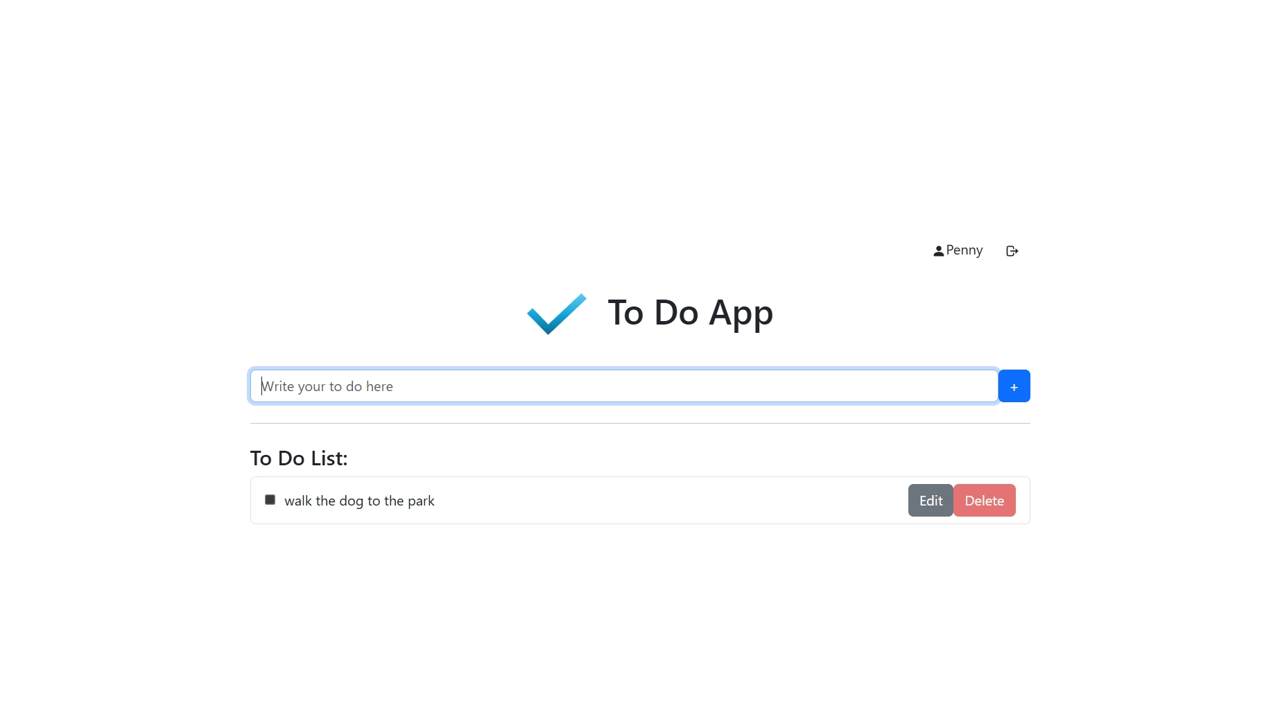
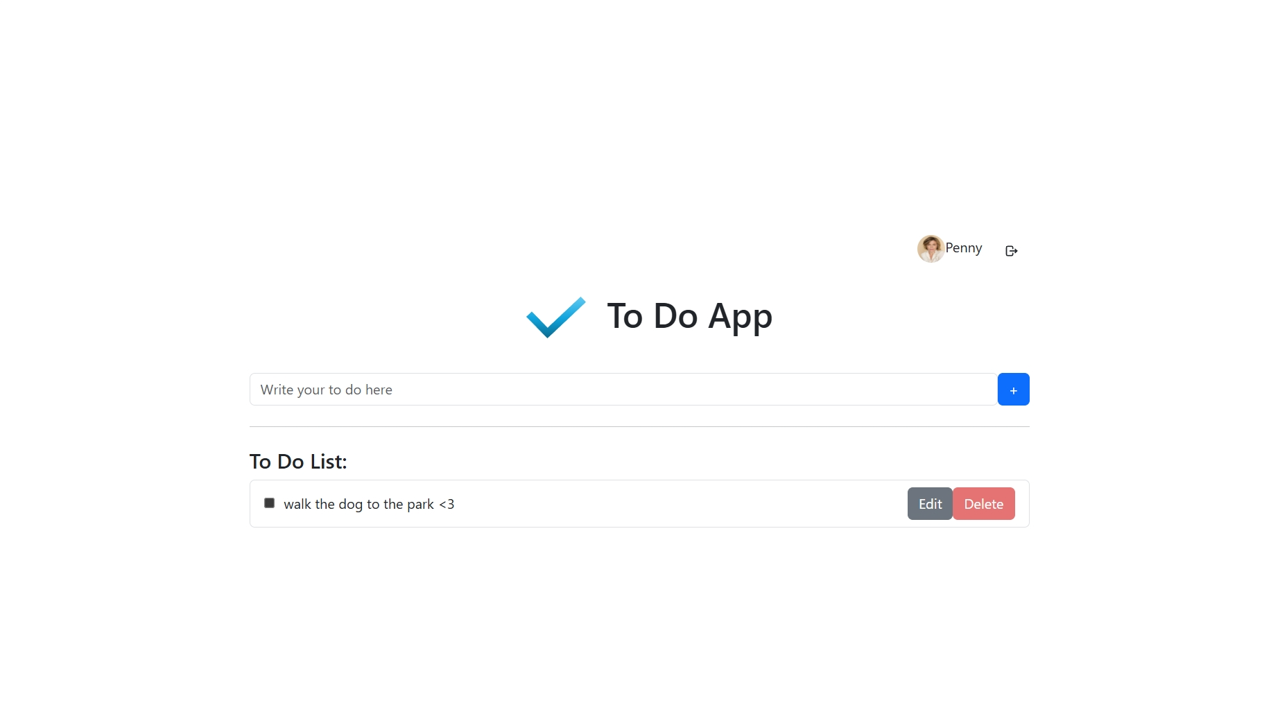
added functionality for uploading profile photo

diff --git a/src/App.jsx b/src/App.jsx
@@ -15,31 +15,27 @@ function App() {
     const [password, setPassword] = useState('');
     const [token, setToken] = useState('');
     const [isLoggedIn, setIsLoggedIn] = useState(false);
-  
+    const [profilePicture, setProfilePicture] = useState(null);
+
     const fetchTasks = useCallback(async () => {
         try {
-            const response = await axios.get('http://localhost:3000/tasks', {
-                headers: { Authorization: token }
-            });
+            const response = await axios.get('http://localhost:3000/tasks', { headers: { Authorization: token } });
             setTasks(response.data);
         } catch (error) {
             console.error('Error fetching tasks:', error);
         }
     }, [token]);
-    
+
     useEffect(() => {
         if (isLoggedIn) {
             fetchTasks();
         }
     }, [isLoggedIn, fetchTasks]);
-    
 
     const handleAddTask = async () => {
         if (task.trim() !== '') {
             try {
-                await axios.post('http://localhost:3000/tasks', { text: task }, {
-                    headers: { Authorization: token }
-                });
+                await axios.post('http://localhost:3000/tasks', { text: task }, { headers: { Authorization: token } });
                 setTask('');
                 fetchTasks();
             } catch (error) {
@@ -50,9 +46,7 @@ function App() {
 
     const handleDeleteTask = async (id) => {
         try {
-            await axios.delete(`http://localhost:3000/tasks/${id}`, {
-                headers: { Authorization: token }
-            });
+            await axios.delete(`http://localhost:3000/tasks/${id}`, { headers: { Authorization: token } });
             fetchTasks();
         } catch (error) {
             console.error('Error deleting task:', error);
@@ -67,9 +61,7 @@ function App() {
 
     const handleSaveTask = async (id) => {
         try {
-            await axios.put(`http://localhost:3000/tasks/${id}`, { text: editTaskText, completed: false, isEditing: false }, {
-                headers: { Authorization: token }
-            });
+            await axios.put(`http://localhost:3000/tasks/${id}`, { text: editTaskText, completed: false, isEditing: false }, { headers: { Authorization: token } });
             fetchTasks();
         } catch (error) {
             console.error('Error saving task:', error);
@@ -79,9 +71,7 @@ function App() {
     const handleToggleComplete = async (id) => {
         const task = tasks.find((task) => task.id === id);
         try {
-            await axios.put(`http://localhost:3000/tasks/${id}`, { ...task, completed: !task.completed }, {
-                headers: { Authorization: token }
-            });
+            await axios.put(`http://localhost:3000/tasks/${id}`, { ...task, completed: !task.completed }, { headers: { Authorization: token } });
             fetchTasks();
         } catch (error) {
             console.error('Error toggling task completion:', error);
@@ -109,7 +99,7 @@ function App() {
             console.error('Error signing up:', error);
             alert('Signup failed. Username already exists.');
         }
-    };   
+    };
 
     const handleLogin = async () => {
         try {
@@ -121,11 +111,29 @@ function App() {
             alert('Login failed. Please check your username and password.');
         }
     };
-   
+
     const handleLogout = () => {
         setToken('');
         setIsLoggedIn(false);
         setTasks([]);
+    };
+
+    const handleProfilePictureUpload = async (event) => {
+        const file = event.target.files[0];
+        const formData = new FormData();
+        formData.append('profilePicture', file);
+
+        try {
+            const response = await axios.post('http://localhost:3000/upload', formData, {
+                headers: {
+                    'Content-Type': 'multipart/form-data',
+                    Authorization: token,
+                },
+            });
+            setProfilePicture(response.data.url);
+        } catch (error) {
+            console.error('Error uploading profile picture:', error);
+        }
     };
 
     if (!isLoggedIn) {
@@ -139,22 +147,10 @@ function App() {
                 </div>
                 <div className="form-inline mt-3">
                     <Form.Group className="mb-3 d-flex align-items-center" controlId="formUsername">
-                        <Form.Control
-                            type="text"
-                            placeholder="Username"
-                            className="mr-2"
-                            value={username}
-                            onChange={(e) => setUsername(e.target.value)}
-                        />
+                        <Form.Control type="text" placeholder="Username" className="mr-2" value={username} onChange={(e) => setUsername(e.target.value)} />
                     </Form.Group>
                     <Form.Group className="mb-3 d-flex align-items-center" controlId="formPassword">
-                        <Form.Control
-                            type="password"
-                            placeholder="Password"
-                            className="mr-2"
-                            value={password}
-                            onChange={(e) => setPassword(e.target.value)}
-                        />
+                        <Form.Control type="password" placeholder="Password" className="mr-2" value={password} onChange={(e) => setPassword(e.target.value)} />
                     </Form.Group>
                     <Button variant="primary" onClick={handleLogin}>Login</Button>
                     <Button variant="secondary" onClick={handleSignup}>Signup</Button>
@@ -167,15 +163,21 @@ function App() {
         <>
             <div className="container mt-5">
                 <div className="logout-container d-flex justify-content-end align-items-center mb-2">
-                    <Button variant="outlined" className="mr-2">
-                        <BsFillPersonFill className="mr-1" />
+                    <input
+                        type="file"
+                        accept="image/*"
+                        style={{ display: 'none' }}
+                        id="profilePictureInput"
+                        onChange={handleProfilePictureUpload}
+                    />
+                    <Button variant="outlined" className="mr-2" onClick={() => document.getElementById('profilePictureInput').click()}>
+                        {profilePicture ? <img src={profilePicture} alt="Profile" className="profile-picture" /> : <BsFillPersonFill className="mr-1" />}
                         {username}
                     </Button>
                     <Button variant="outlined" className="mr-2" onClick={handleLogout}>
                         <TbLogout className="mr-1" />
                     </Button>
-                    </div>
-
+                </div>
                 <div className="header-container d-flex align-items-center justify-content-center">
                     <div className="header d-flex align-items-center">
                         <a href="#">
@@ -186,14 +188,7 @@ function App() {
                 </div>
                 <div className="form-inline mt-3">
                     <Form.Group className="mb-3 d-flex align-items-center" controlId="formToDo" style={{ width: '900px' }}>
-                        <Form.Control
-                            type="text"
-                            placeholder="Write your to do here"
-                            className="mr-2"
-                            value={task}
-                            onChange={(e) => setTask(e.target.value)}
-                            onKeyPress={handleKeyPress}
-                        />
+                        <Form.Control type="text" placeholder="Write your to do here" className="mr-2" value={task} onChange={(e) => setTask(e.target.value)} onKeyPress={handleKeyPress} />
                         <Button variant="primary" type="button" onClick={handleAddTask}>+</Button>
                     </Form.Group>
                 </div>
@@ -203,30 +198,12 @@ function App() {
                         <h4 className="mt-4" style={{ textAlign: 'left' }}>To Do List:</h4>
                         <ul className="list-group mt-2">
                             {tasks.map((task) => (
-                                <li
-                                    key={task.id}
-                                    className={`list-group-item d-flex align-items-center task-item ${task.completed ? 'completed-task' : ''}`}
-                                >
-                                    <input
-                                        type="checkbox"
-                                        className="mr-2"
-                                        checked={task.completed}
-                                        onChange={() => handleToggleComplete(task.id)}
-                                    />
+                                <li key={task.id} className={`list-group-item d-flex align-items-center task-item ${task.completed ? 'completed-task' : ''}`}>
+                                    <input type="checkbox" className="mr-2" checked={task.completed} onChange={() => handleToggleComplete(task.id)} />
                                     {task.isEditing ? (
-                                        <Form.Control
-                                            type="text"
-                                            className="flex-grow-1 ml-2"
-                                            value={editTaskText}
-                                            onChange={(e) => setEditTaskText(e.target.value)}
-                                            onKeyPress={(e) => handleSaveKeyPress(e, task.id)}
-                                            autoFocus
-                                        />
+                                        <Form.Control type="text" className="flex-grow-1 ml-2" value={editTaskText} onChange={(e) => setEditTaskText(e.target.value)} onKeyPress={(e) => handleSaveKeyPress(e, task.id)} autoFocus />
                                     ) : (
-                                        <span
-                                            className={`flex-grow-1 ml-2 ${task.completed ? 'completed' : ''}`}
-                                            style={{ textAlign: 'left' }}
-                                        >
+                                        <span className={`flex-grow-1 ml-2 ${task.completed ? 'completed' : ''}`} style={{ textAlign: 'left' }}>
                                             {task.text}
                                         </span>
                                     )}
@@ -285,6 +262,11 @@ function App() {
                 .muted-red {
                     background-color: #e57373;
                     border-color: #e57373;
+                }
+                .profile-picture {
+                    width: 2em; /* Adjust the size to match the icon */
+                    height: 2em; /* Adjust the size to match the icon */
+                    border-radius: 50%; /* Optional: to make the image circular */
                 }
             `}</style>
         </>

diff --git a/server.js b/server.js
@@ -4,14 +4,78 @@ import { v4 as uuidv4 } from 'uuid';
 import cors from 'cors';
 import bcrypt from 'bcrypt';
 import jwt from 'jsonwebtoken';
+import multer from 'multer';
+import path from 'path';
+import helmet from 'helmet';
 
 const app = express();
 const port = 3000;
 const secretKey = 'your_secret_key';
 
-app.use(cors());
+app.use(cors({ origin: 'http://localhost:5173' })); // Allow requests from your frontend origin
 app.use(express.json());
 app.use(express.urlencoded({ extended: true }));
+app.use(helmet({ 
+    crossOriginResourcePolicy: false, 
+    crossOriginEmbedderPolicy: false, 
+}));
+
+// Middleware to set CORS headers for all responses
+app.use((req, res, next) => {
+  res.header('Access-Control-Allow-Origin', 'http://localhost:5173');
+  res.header('Access-Control-Allow-Methods', 'GET, POST, PUT, DELETE');
+  res.header('Access-Control-Allow-Headers', 'Origin, X-Requested-With, Content-Type, Accept, Authorization');
+  next();
+});
+
+// Set storage engine
+const storage = multer.diskStorage({
+  destination: './uploads/',
+  filename: function (req, file, cb) {
+    cb(null, file.fieldname + '-' + Date.now() + path.extname(file.originalname));
+  }
+});
+
+// Initialize upload
+const upload = multer({
+  storage: storage,
+  limits: { fileSize: 1000000 }, // Limit file size to 1MB
+  fileFilter: function (req, file, cb) {
+    checkFileType(file, cb);
+  }
+}).single('profilePicture');
+
+// Check file type
+function checkFileType(file, cb) {
+  const filetypes = /jpeg|jpg|png|gif/;
+  const extname = filetypes.test(path.extname(file.originalname).toLowerCase());
+  const mimetype = filetypes.test(file.mimetype);
+
+  if (mimetype && extname) {
+    return cb(null, true);
+  } else {
+    cb('Error: Images Only!');
+  }
+}
+
+// Route to handle file upload
+app.post('/upload', (req, res) => {
+  upload(req, res, (err) => {
+    if (err) {
+      res.status(400).send(err);
+    } else {
+      if (req.file == undefined) {
+        res.status(400).send('No file selected!');
+      } else {
+        const fileUrl = `${req.protocol}://${req.get('host')}/uploads/${req.file.filename}`;
+        res.json({ url: fileUrl });
+      }
+    }
+  });
+});
+
+// Serve static files from the uploads directory
+app.use('/uploads', express.static('uploads'));
 
 const db = new sqlite3.Database('./models/database.db');
 
